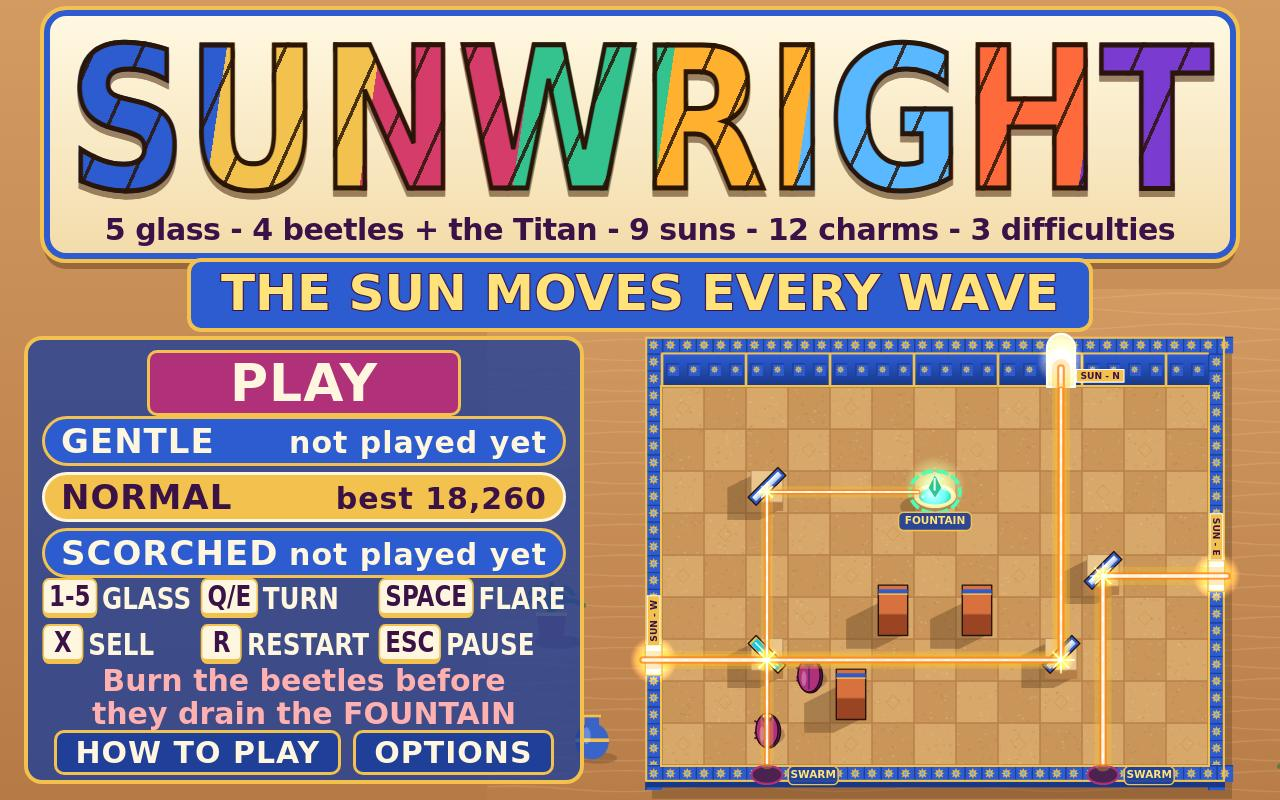
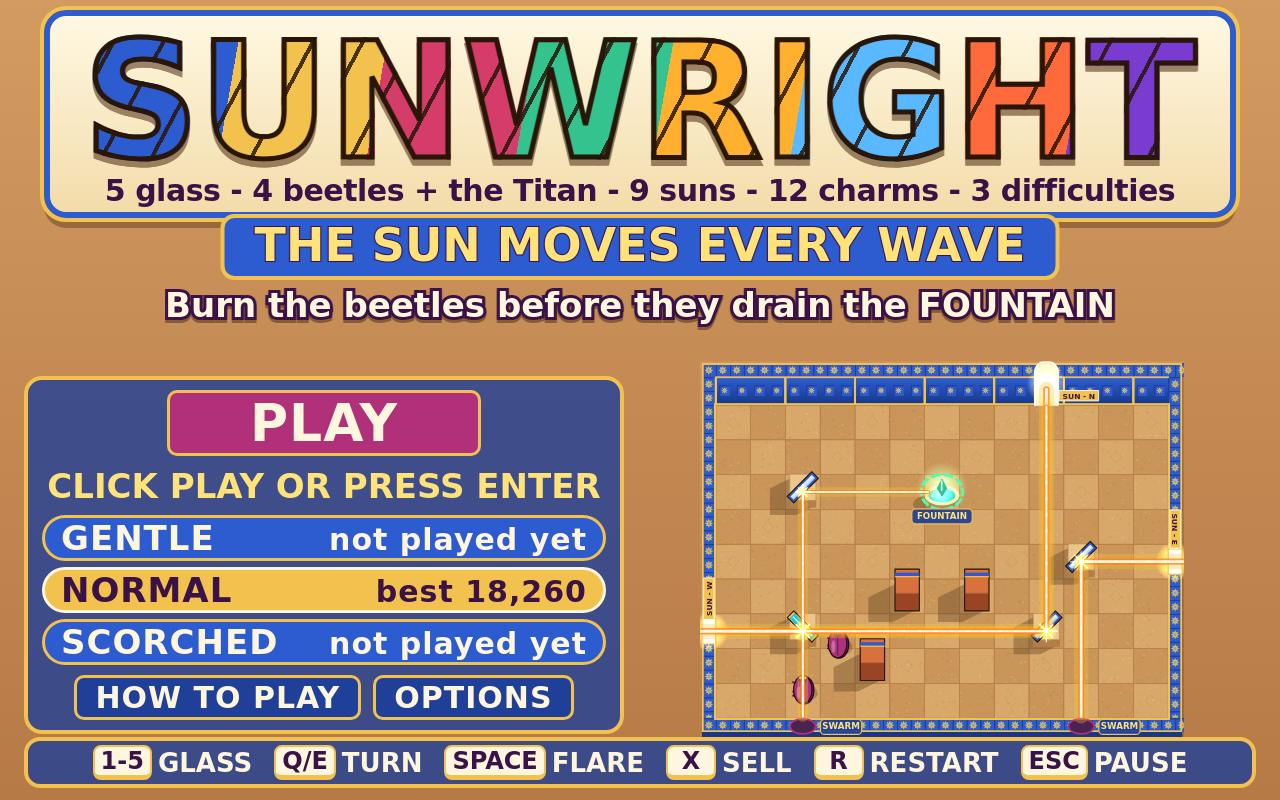
Title: CLICK PLAY OR PRESS ENTER (34 px); ENTER starts the selected difficulty, arrows move it (playtest asserts); card, rules row, demo and keycap band relaid without squeezed type

diff --git a/game/style.css b/game/style.css
@@ -10,26 +10,28 @@ button:disabled { opacity: 0.45; cursor: default; }
 button.big { font-size: 30px; padding: 14px 40px; background: #b0307a; }
 button.big:hover { background: #cf3f93; }
 
-/* Title: the stained-glass wordmark with the scope line, the hook, a lapis menu card on the left,
-   the live courtyard (three suns) on the right. */
+/* Title: the stained-glass wordmark with the scope line, the hook, the rules, a lapis menu card on the
+   left (PLAY, how to start, difficulty), the live courtyard (three suns) on the right, keys along the bottom. */
 #title-screen { display: block; background: none; }
-.banner { position: absolute; left: 50%; top: 10px; transform: translateX(-50%); width: 1180px; display: flex; flex-direction: column; align-items: center; padding: 0 0 6px; background: linear-gradient(#fff8e2, #f3dcaa); border: 6px solid #2d5bd0; outline: 4px solid #f2c14e; border-radius: 22px; box-shadow: 0 10px 0 rgba(91, 58, 30, 0.45); }
-#wordmark { margin: -10px 0 -22px; white-space: nowrap; transform: scaleX(0.84); font: 900 196px system-ui, sans-serif; letter-spacing: 0; color: transparent;
-  background-image: repeating-linear-gradient(118deg, transparent 0 46px, rgba(42, 22, 8, 0.85) 46px 50px), linear-gradient(100deg, #2d5bd0 0 14%, #f2c14e 14% 27%, #d63c6a 27% 40%, #34c38f 40% 52%, #ffb02e 52% 64%, #59b8ff 64% 77%, #ff6a3d 77% 88%, #7a3bd0 88%);
+.banner { position: absolute; left: 50%; top: 10px; transform: translateX(-50%); width: 1180px; display: flex; flex-direction: column; align-items: center; padding: 0 0 4px; background: linear-gradient(#fff8e2, #f3dcaa); border: 6px solid #2d5bd0; outline: 4px solid #f2c14e; border-radius: 22px; box-shadow: 0 10px 0 rgba(91, 58, 30, 0.45); }
+#wordmark { margin: -8px 0 -22px; white-space: nowrap; font: 900 160px system-ui, sans-serif; letter-spacing: 0; color: transparent;
+  background-image: repeating-linear-gradient(118deg, transparent 0 40px, rgba(42, 22, 8, 0.85) 40px 44px), linear-gradient(100deg, #2d5bd0 0 14%, #f2c14e 14% 27%, #d63c6a 27% 40%, #34c38f 40% 52%, #ffb02e 52% 64%, #59b8ff 64% 77%, #ff6a3d 77% 88%, #7a3bd0 88%);
   -webkit-background-clip: text; background-clip: text; -webkit-text-stroke: 5px #2a1608; filter: drop-shadow(0 6px 0 rgba(91, 58, 30, 0.6)); }
 .scope { margin: 0; font: 900 30px system-ui, sans-serif; color: #3b1247; white-space: nowrap; letter-spacing: -0.5px; }
-.hook { position: absolute; left: 50%; top: 258px; transform: translateX(-50%); margin: 0; padding: 2px 30px 6px; white-space: nowrap; font: 900 50px system-ui, sans-serif; color: #ffe27a; background: #2d5bd0; border: 4px solid #f2c14e; border-radius: 14px; -webkit-text-stroke: 2px #3b1247; paint-order: stroke fill; }
-.title-card { position: absolute; left: 24px; top: 336px; bottom: 16px; width: 560px; box-sizing: border-box; display: flex; flex-direction: column; align-items: center; justify-content: space-between; padding: 10px 14px; background: rgba(31, 63, 153, 0.8); border: 4px solid #f2c14e; border-radius: 18px; }
+.hook { position: absolute; left: 50%; top: 214px; transform: translateX(-50%); margin: 0; padding: 0 30px 4px; white-space: nowrap; font: 900 46px system-ui, sans-serif; color: #ffe27a; background: #2d5bd0; border: 4px solid #f2c14e; border-radius: 14px; -webkit-text-stroke: 2px #3b1247; paint-order: stroke fill; }
+.rules { position: absolute; left: 24px; right: 24px; top: 286px; display: flex; flex-direction: column; align-items: center; }
+.rules p { margin: 0; font: 900 34px system-ui, sans-serif; line-height: 1.15; white-space: nowrap; color: #fff6df; -webkit-text-stroke: 6px #3b1247; paint-order: stroke fill; filter: drop-shadow(0 3px 0 rgba(91, 58, 30, 0.6)); }
+.title-card { position: absolute; left: 24px; top: 376px; bottom: 66px; width: 600px; box-sizing: border-box; display: flex; flex-direction: column; align-items: center; justify-content: space-between; padding: 10px 14px; background: rgba(31, 63, 153, 0.8); border: 4px solid #f2c14e; border-radius: 18px; }
 #play-button { font-size: 52px; padding: 0 80px; }
+.start-hint { margin: 0; font: 900 34px system-ui, sans-serif; color: #ffe27a; white-space: nowrap; letter-spacing: 0; }
 .picker { display: flex; flex-direction: column; gap: 6px; width: 100%; }
-.diff { display: flex; justify-content: space-between; align-items: baseline; width: 100%; padding: 2px 16px; background: #2d5bd0; border-radius: 26px; }
+.diff { display: flex; justify-content: space-between; align-items: baseline; width: 100%; padding: 0 16px; background: #2d5bd0; border-radius: 26px; }
 .diff b { font-size: 34px; }
 .diff small { font-weight: 800; font-size: 30px; }
 .diff.on { background: #f2c14e; color: #3b1247; border-color: #fff6df; }
-.keycaps { display: grid; grid-template-columns: auto auto auto; gap: 6px 12px; font: 900 30px system-ui, sans-serif; color: #fff6df; transform: scaleX(0.82); }
+.keycaps { position: absolute; left: 24px; right: 24px; bottom: 12px; display: flex; justify-content: center; gap: 22px; padding: 4px 0; font: 900 26px system-ui, sans-serif; color: #fff6df; background: rgba(31, 63, 153, 0.8); border: 4px solid #f2c14e; border-radius: 16px; }
 .keycaps span { display: flex; align-items: center; gap: 6px; white-space: nowrap; }
-kbd { display: inline-block; min-width: 34px; padding: 0 6px; font: 900 28px system-ui, sans-serif; text-align: center; color: #3b1247; background: #fff6df; border: 2px solid #f2c14e; border-bottom-width: 5px; border-radius: 8px; }
-#rule-lose { margin: 0; font: 900 30px system-ui, sans-serif; line-height: 1.1; text-align: center; color: #ffb0b0; }
+kbd { display: inline-block; min-width: 34px; padding: 0 6px; font: 900 24px system-ui, sans-serif; text-align: center; color: #3b1247; background: #fff6df; border: 2px solid #f2c14e; border-bottom-width: 5px; border-radius: 8px; }
 .row { display: flex; gap: 12px; }
 .row button { font-size: 30px; padding: 2px 18px; }
 .options label { display: grid; grid-template-columns: 220px 200px; justify-items: start; align-items: center; gap: 16px; font-weight: 800; font-size: 20px; }

diff --git a/game/src/main.js b/game/src/main.js
@@ -1,6 +1,6 @@
 // Boot and the main loop: a fixed 60 Hz sim step separate from rendering, the screen state
 // (title / how to play / play + pause), and turning queued input intents into sim orders.
-import { DIFFICULTIES, DT, PIECES, PIECE_ORDER } from './config.js';
+import { DIFFICULTIES, DIFFICULTY_ORDER, DT, PIECES, PIECE_ORDER } from './config.js';
 import { createRun, pieceCost, pieceUnlocked, runSummary, stepSim } from './sim.js';
 import { playSfx, playSizzle, setBeamHum, setVolume, unlockAudio, updateMusic } from './audio.js';
 import { loadBest, loadHistory, loadSettings, recordRun, saveSettings } from './save.js';
@@ -214,7 +214,13 @@ function handleIntent(it) {
     else if (it.kind === 'click') handleClickInPlay(it);
     else if (it.kind === 'wheel' && !app.paused) rotateAtHover(it.dir);
   } else if (it.kind === 'key') {
-    if (it.code === 'Enter' || it.code === 'Space') startRun();
+    // Title: ENTER (or SPACE) starts the selected difficulty; the arrows move the selection.
+    if (it.code === 'Enter' || it.code === 'NumpadEnter' || it.code === 'Space') startRun();
+    else if ((it.code === 'ArrowUp' || it.code === 'ArrowDown') && app.screen === 'title') {
+      const i = DIFFICULTY_ORDER.indexOf(app.settings.difficulty);
+      const step = it.code === 'ArrowDown' ? 1 : DIFFICULTY_ORDER.length - 1;
+      handleUiAction('difficulty', DIFFICULTY_ORDER[(i + step) % DIFFICULTY_ORDER.length]);
+    }
     else if (it.code === 'Escape') {
       app.showOptions = false;
       app.screen = 'title';

diff --git a/game/index.html b/game/index.html
@@ -26,18 +26,21 @@
       <p id="rule-scope" class="scope"></p>
     </div>
     <p id="rule-sun" class="hook">THE SUN MOVES EVERY WAVE</p>
+    <div class="rules">
+      <p id="rule-lose">Burn the beetles before they drain the FOUNTAIN</p>
+    </div>
     <div class="title-card">
       <button id="play-button" class="big" data-action="play">PLAY</button>
+      <p id="start-hint" class="start-hint">CLICK PLAY OR PRESS ENTER</p>
       <div id="difficulty-picker" class="picker"></div>
-      <div id="keycaps" class="keycaps">
-        <span><kbd>1-5</kbd>GLASS</span><span><kbd>Q/E</kbd>TURN</span><span><kbd>SPACE</kbd>FLARE</span>
-        <span><kbd>X</kbd>SELL</span><span><kbd>R</kbd>RESTART</span><span><kbd>ESC</kbd>PAUSE</span>
-      </div>
-      <p id="rule-lose">Burn the beetles before<br>they drain the FOUNTAIN</p>
       <div class="row">
         <button id="howto-button" data-action="howto">HOW TO PLAY</button>
         <button id="options-button" data-action="options">OPTIONS</button>
       </div>
+    </div>
+    <div id="keycaps" class="keycaps">
+      <span><kbd>1-5</kbd>GLASS</span><span><kbd>Q/E</kbd>TURN</span><span><kbd>SPACE</kbd>FLARE</span>
+      <span><kbd>X</kbd>SELL</span><span><kbd>R</kbd>RESTART</span><span><kbd>ESC</kbd>PAUSE</span>
     </div>
   </section>
 

diff --git a/game/src/render/scene.js b/game/src/render/scene.js
@@ -28,8 +28,8 @@ function drawCellCursor(ctx, cell, ok) {
   }
 }
 
-/** Where the title's demo courtyard sits: centred right of the menu card, below the hook. */
-const TITLE_DEMO = { x: 935, y: 562, scale: 0.7 };
+/** Where the title's demo courtyard sits: right of the menu card, between the rules and the key band. */
+const TITLE_DEMO = { x: 942, y: 550, scale: 0.58 };
 
 const nextCache = { run: null, version: -1, value: null };
 
@@ -61,6 +61,10 @@ export function drawFrame(ctx, frame) {
     ctx.translate(TITLE_DEMO.x, TITLE_DEMO.y);
     ctx.scale(TITLE_DEMO.scale, TITLE_DEMO.scale);
     ctx.translate(-VIEW_W / 2, -390);
+    // Only the walled courtyard: its sand and props would show their edges at this scale.
+    ctx.beginPath();
+    ctx.rect(BOARD_X - WALL - 3, BOARD_Y - WALL_FRONT - WALL - 3, BOARD_W + WALL * 2 + 6, BOARD_H + WALL_FRONT + WALL * 2 + 14);
+    ctx.clip();
   }
   drawCourtyard(ctx, run, time, !!frame.titleTraces);
   if (frame.showHud && (phase === 'build' || phase === 'wave')) drawMarchLines(ctx, run, time);

diff --git a/game/src/input.js b/game/src/input.js
@@ -3,7 +3,8 @@
 // the queue once per frame and turns intents into sim orders.
 import { VIEW_H, VIEW_W } from './render/layout.js';
 
-const BLOCKED_KEYS = new Set(['Space', 'ArrowUp', 'ArrowDown', 'ArrowLeft', 'ArrowRight', 'Tab']);
+// Enter is ours too: a focused button must not also click itself (PLAY would start twice).
+const BLOCKED_KEYS = new Set(['Space', 'Enter', 'NumpadEnter', 'ArrowUp', 'ArrowDown', 'ArrowLeft', 'ArrowRight', 'Tab']);
 
 export function createInput(stage, canvas) {
   const input = { intents: [], mouse: { x: -1, y: -1, inside: false } };

diff --git a/NOTES.md b/NOTES.md
@@ -165,6 +165,13 @@
   the save via announce.historyChip. check-shot-truth rebuilds the chips from the replayed runs and
   checks the label size, the caption size, and that a won results screen has no other lose title.
 
+- Benchmark 5 item 3: title says CLICK PLAY OR PRESS ENTER (34 px) under PLAY; ENTER starts the selected
+  difficulty, Up/Down move the selection, Enter no longer also clicks a focused button. Title relaid:
+  wordmark 160 px unsqueezed, hook 46 px, a full-width rules row, a 600 px card (PLAY, hint, picker,
+  HOW TO PLAY / OPTIONS), the demo courtyard (scale 0.58, clipped to its walls) right of it, and the
+  keycaps as one band along the bottom (26 px, no squeeze). Playtest asserts ENTER -> SCORCHED run
+  and ArrowUp -> Normal.
+
 ## Next
 - Staging (benchmark 2 item 1, benchmark 1 item 6): cover wants >= 18 beetles, >= 4 burning, >= 3
   floaters, a Scuttler at the rim and a fresh -1 FOUNTAIN; draft and win at 6/10 (now 8/10).
